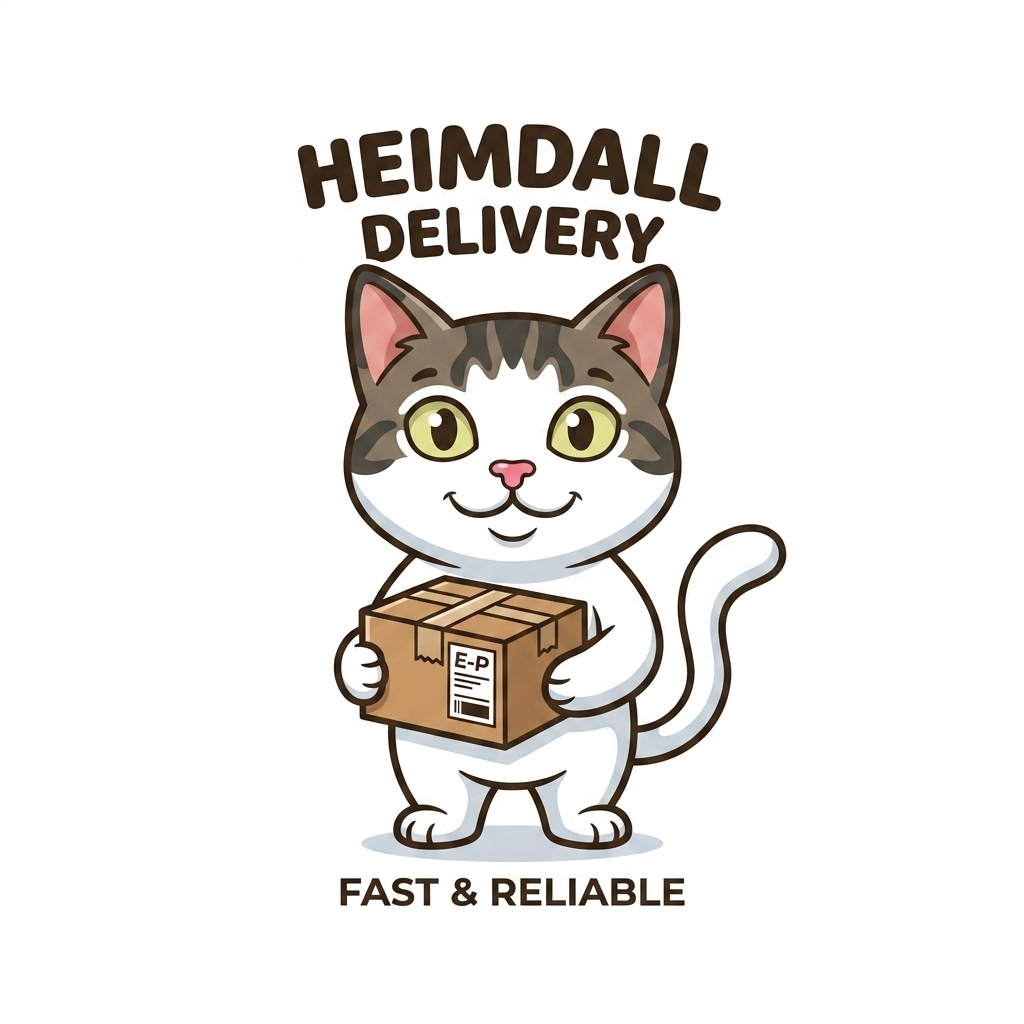
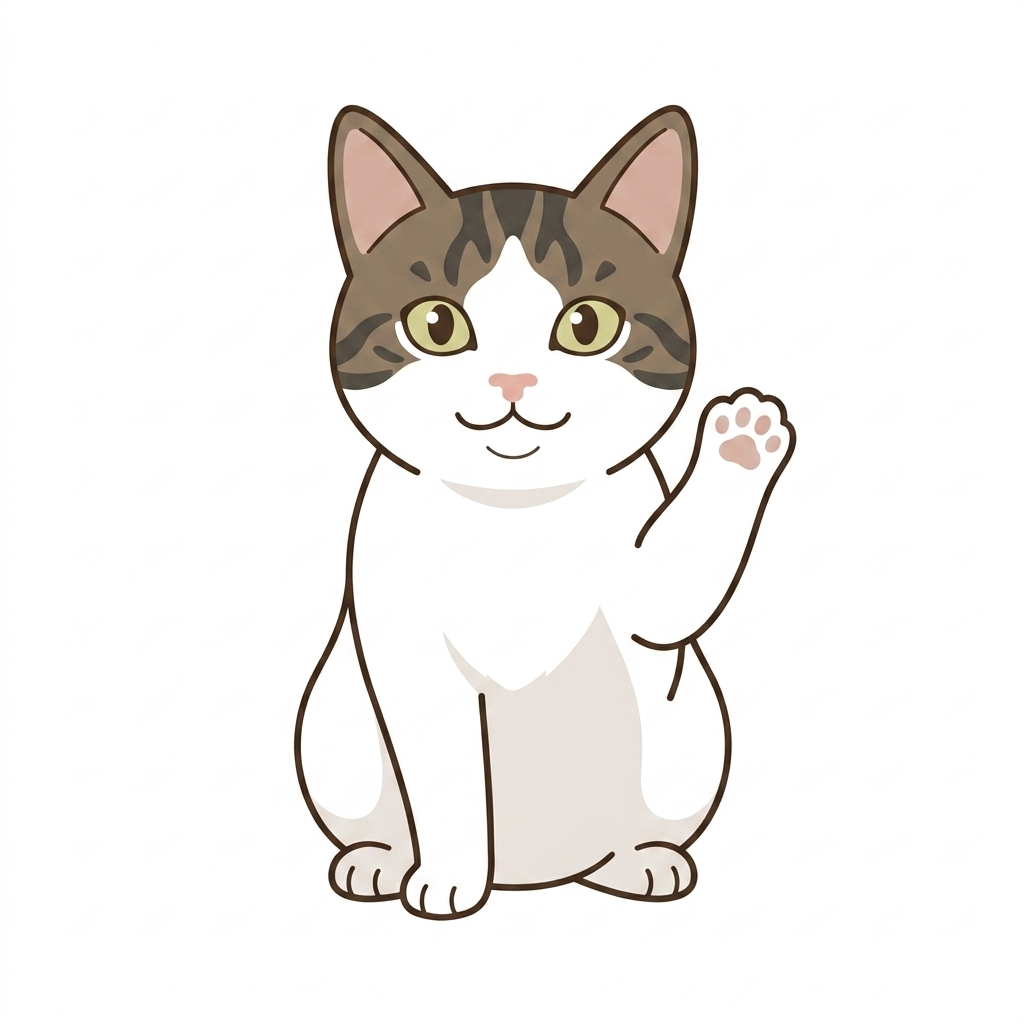
style: perfect the cat mascot coloring and pivot from delivery to companion branding

Changed region(s): [[0.2812, 0.0938, 0.7812, 0.9062]]

diff --git a/templates/index.html b/templates/index.html
@@ -327,8 +327,8 @@
   <div class="header">
     <div id="subBadge" class="sub-badge hidden">Loading Sub...</div>
     <h1 style="cursor: pointer; display: flex; align-items: center; justify-content: center; gap: 15px;" onclick="if(typeof currentSession !== 'undefined' && !currentSession) { document.getElementById('auth-section').classList.add('hidden'); document.getElementById('landing-section').classList.remove('hidden'); }">
-        <img src="/static/mascot.png" alt="Heimdall Cat Mascot" style="height: 60px; width: 60px; border-radius: 50%; box-shadow: 0 4px 10px rgba(236,72,153,0.3); object-fit: cover;">
-        Heimdall Ekspres
+        <img src="/static/mascot.png" alt="Heimdall Seller Companion" style="height: 60px; width: 60px; border-radius: 50%; box-shadow: 0 4px 10px rgba(236,72,153,0.3); object-fit: cover;">
+        Heimdall
     </h1>
     <p>WhatsApp order → Courier-ready CSV · Khas untuk seller, J&T, Ninja Van</p>
     <div style="position: absolute; top: 0; right: 0; display:flex; gap:10px;">